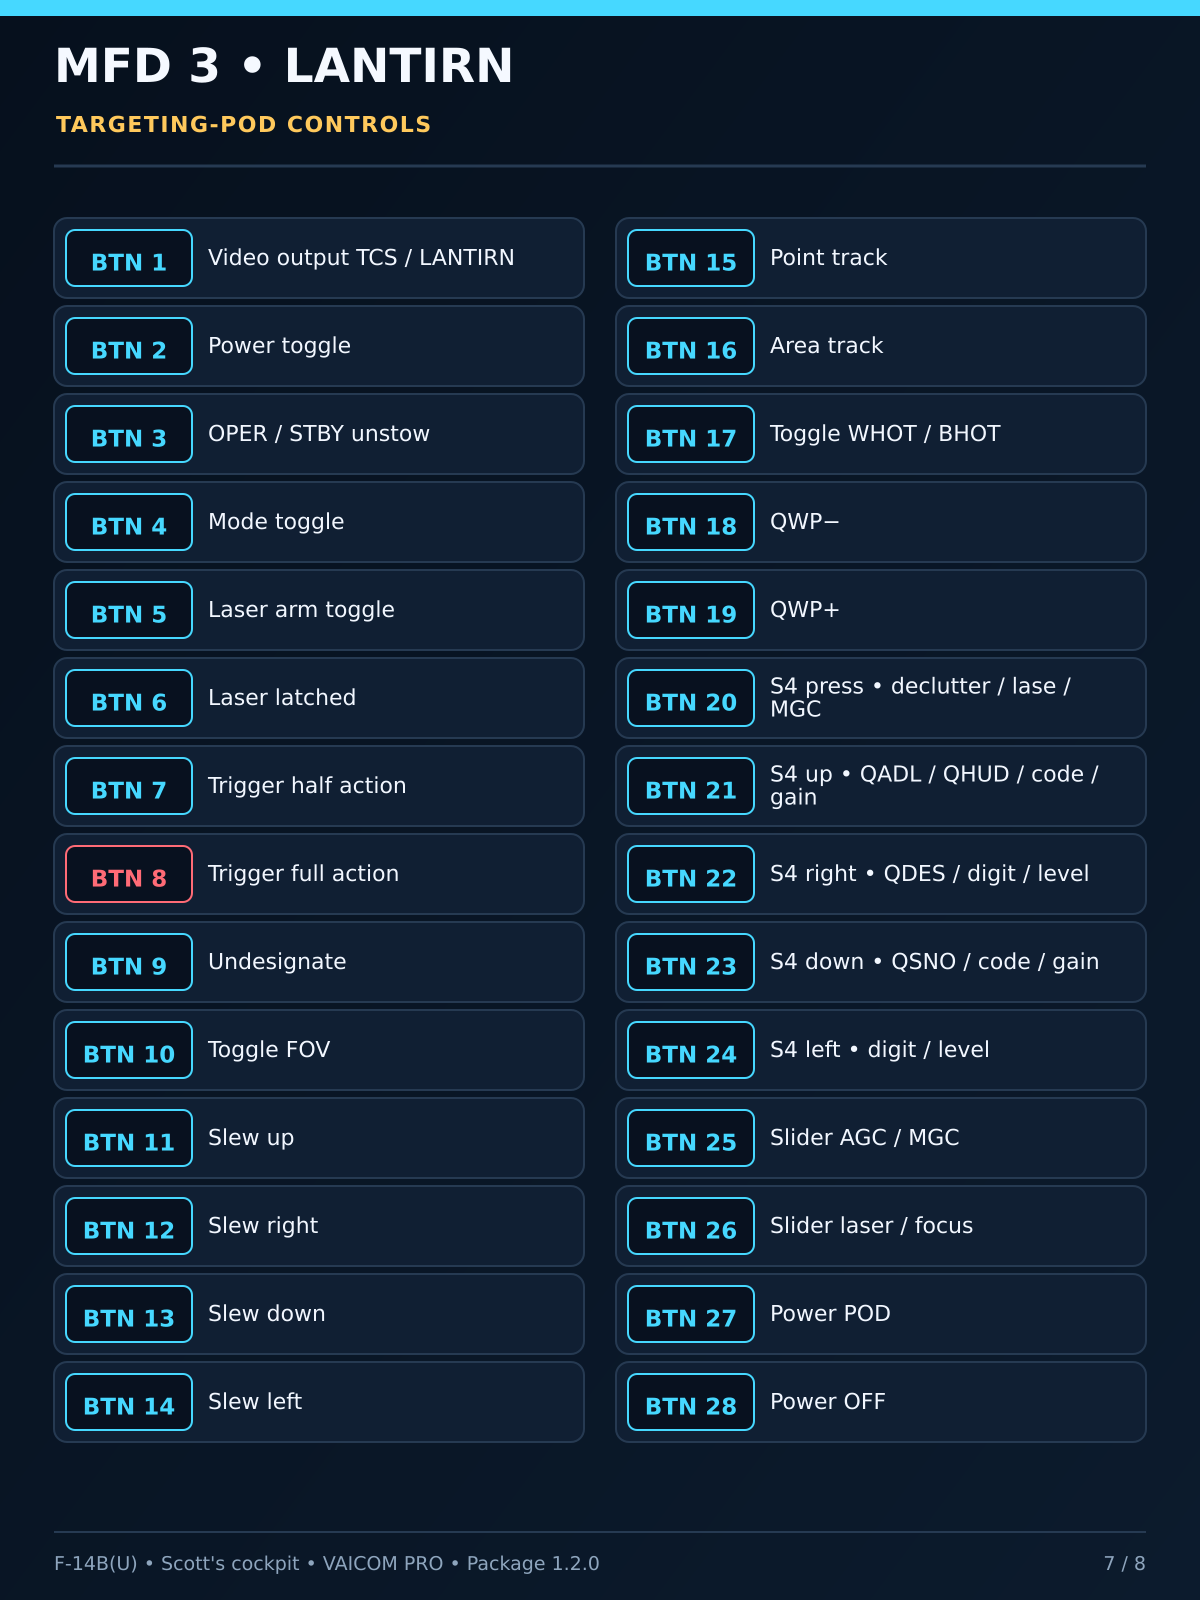
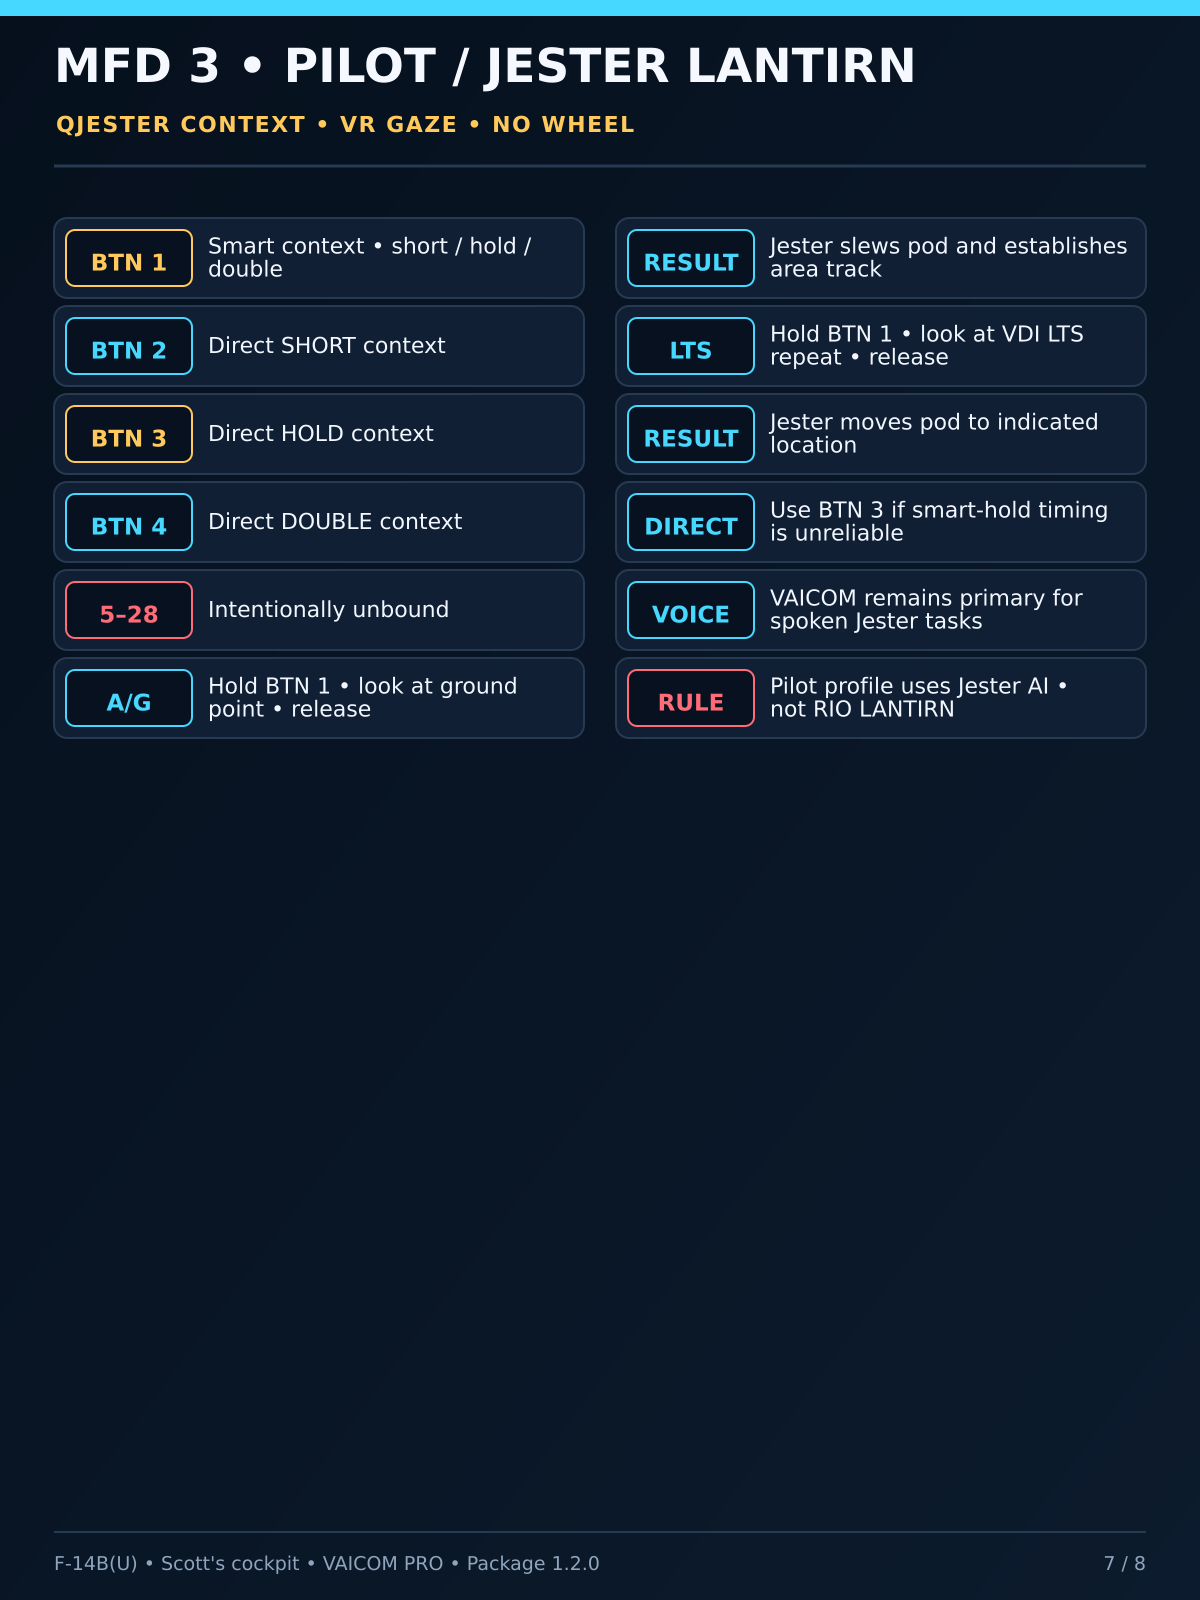
Use pilot Jester context controls on MFD3

diff --git a/docs/CONTROL-MAPPINGS.md b/docs/CONTROL-MAPPINGS.md
@@ -65,23 +65,16 @@ The four bindings are explicit in the Saved Games profile so they remain present
 | 9 | Parking brake stow | 19 | Catapult salute |
 | 10 | Parking brake pull | 20 | DLC/countermeasure |
 
-## MFD 3 — LANTIRN
+## MFD 3 — pilot/Jester LANTIRN context
 
-| Button | Command | Button | Command |
-|---:|---|---:|---|
-| 1 | Video TCS/LANTIRN | 15 | Point track |
-| 2 | Power toggle | 16 | Area track |
-| 3 | OPER/STBY | 17 | WHOT/BHOT |
-| 4 | Mode toggle | 18 | QWP− |
-| 5 | Laser arm toggle | 19 | QWP+ |
-| 6 | Laser latched | 20 | S4 press |
-| 7 | Trigger half | 21 | S4 up |
-| 8 | Trigger full | 22 | S4 right |
-| 9 | Undesignate | 23 | S4 down |
-| 10 | Toggle FOV | 24 | S4 left |
-| 11 | Slew up | 25 | Slider AGC/MGC |
-| 12 | Slew right | 26 | Slider laser/focus |
-| 13 | Slew down | 27 | Power POD |
-| 14 | Slew left | 28 | Power OFF |
+| Button | Pilot command |
+|---:|---|
+| 1 | Jester Context Action — smart short/hold/double |
+| 2 | Jester Context Action SHORT — direct |
+| 3 | Jester Context Action HOLD — direct |
+| 4 | Jester Context Action DOUBLE — direct |
+| 5–28 | Intentionally unbound |
+
+In A/G mode, hold BTN1 while looking at a ground point and release it to ask Jester to slew the targeting pod and establish an area track. The same hold/look/release interaction on the VDI in LTS repeat tells Jester to move the pod to the indicated location. BTN2–BTN4 provide Heatblur's direct gesture fallbacks if the smart button has timing or hardware micro-interruption issues. No Jester wheel is required.
 
 The generated kneeboard pages contain the complete PDCP, PTO2, Gunfighter, Warthog, axis, and reserved-device tables.

diff --git a/docs/OPENKNEEBOARD-VAICOM.md b/docs/OPENKNEEBOARD-VAICOM.md
@@ -6,7 +6,7 @@ VAICOM PRO remains the primary interface for conversational Jester and radio ope
 
 - MFD 1: direct Jester navigation/radar/context commands without opening the wheel
 - MFD 2: carrier and airframe actions
-- MFD 3: direct LANTIRN commands
+- MFD 3: pilot-to-Jester LANTIRN context actions using VR gaze; no direct RIO-seat pod commands
 - Warthog MIC switch: TX1-TX5 through AutoHotKey and VoiceAttack
 
 ## OpenKneeboard tab
@@ -37,4 +37,3 @@ These commands can be added to the existing VoiceAttack profile without changing
 | Kneeboard day | `OpenKneeboard-RemoteControl-DISABLE_TINT.exe` |
 
 Use phrases that do not overlap with VAICOM keywords.
-
